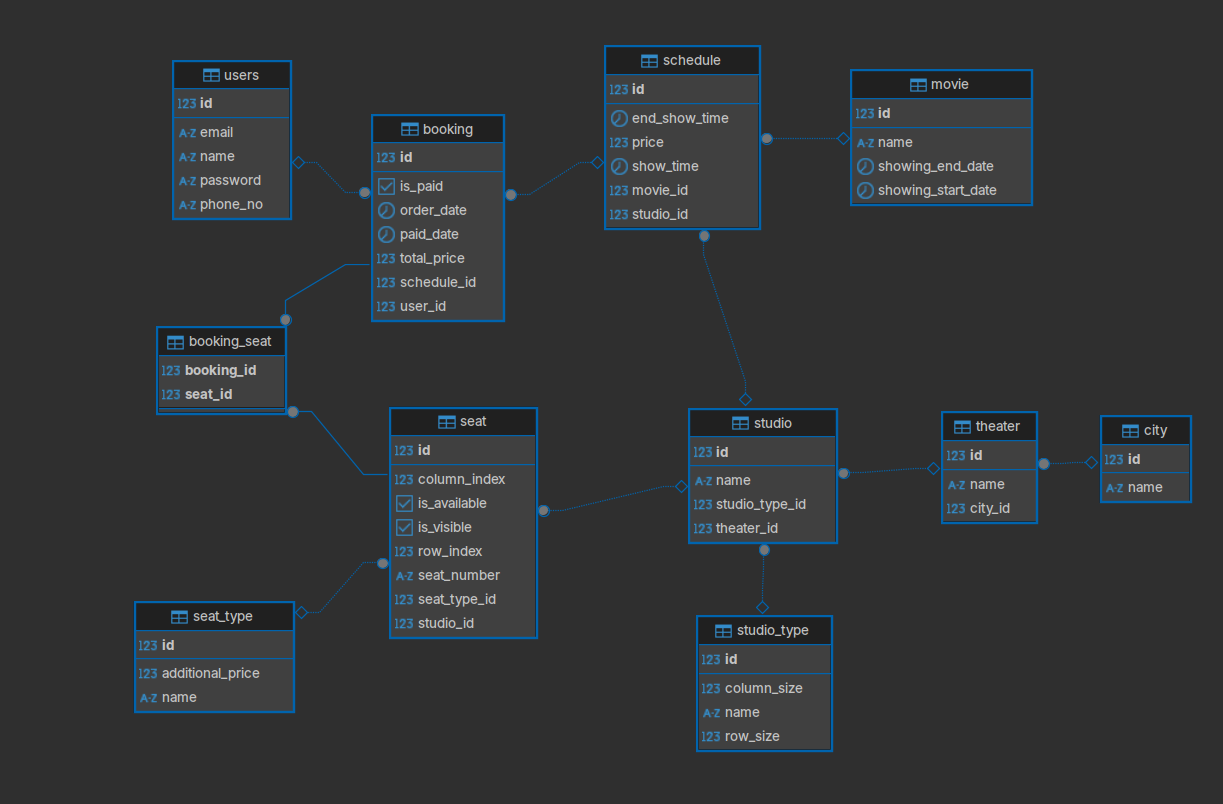
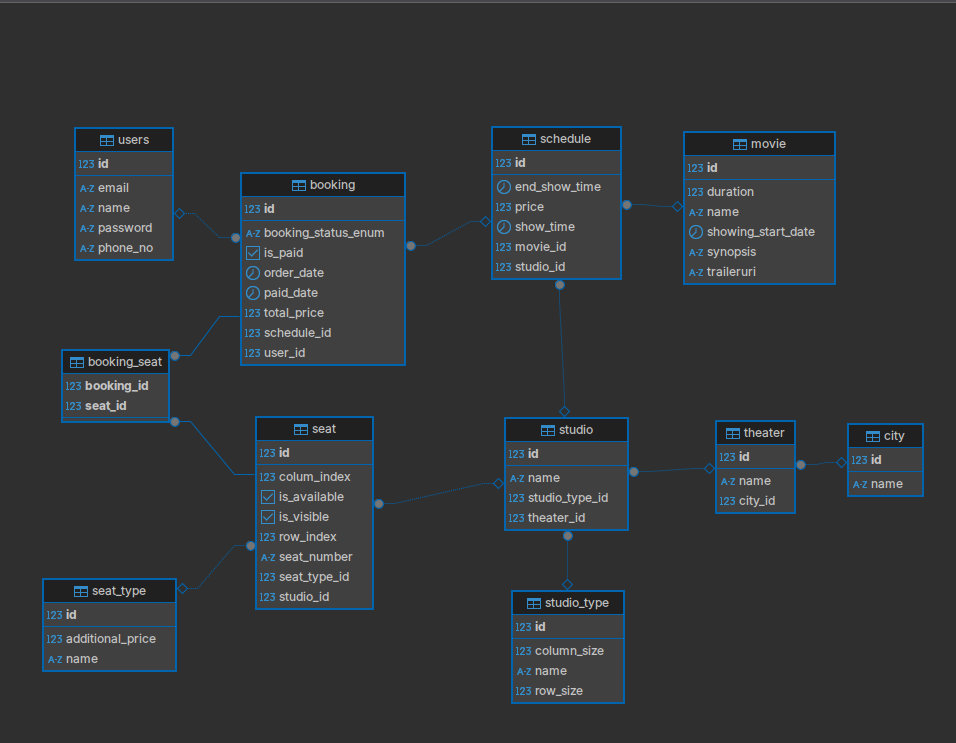
feat: Change Database Little Bit

diff --git a/src/main/java/com/tix/nostra/nostra_tix/domain/Movie.java b/src/main/java/com/tix/nostra/nostra_tix/domain/Movie.java
@@ -13,9 +13,17 @@ public class Movie {
     @Column(nullable = false)
     private String name;
 
-    private Date showingStartDate;
+    @Column(nullable = false)
+    private String trailerURI;
 
-    private Date showingEndDate;
+    @Column(nullable = false)
+    private Integer duration;
+
+    @Lob
+    @Column(nullable = false, columnDefinition = "TEXT")
+    private String synopsis;
+
+    private Date showingStartDate;
 
     public Long getId() {
         return id;
@@ -41,11 +49,27 @@ public class Movie {
         this.showingStartDate = showingStartDate;
     }
 
-    public Date getShowingEndDate() {
-        return showingEndDate;
+    public String getTrailerURI() {
+        return trailerURI;
     }
 
-    public void setShowingEndDate(Date showingEndDate) {
-        this.showingEndDate = showingEndDate;
+    public void setTrailerURI(String trailerURI) {
+        this.trailerURI = trailerURI;
+    }
+
+    public Integer getDuration() {
+        return duration;
+    }
+
+    public void setDuration(Integer duration) {
+        this.duration = duration;
+    }
+
+    public String getSynopsis() {
+        return synopsis;
+    }
+
+    public void setSynopsis(String synopsis) {
+        this.synopsis = synopsis;
     }
 }

diff --git a/src/main/java/com/tix/nostra/nostra_tix/domain/Booking.java b/src/main/java/com/tix/nostra/nostra_tix/domain/Booking.java
@@ -1,5 +1,6 @@
 package com.tix.nostra.nostra_tix.domain;
 
+import com.tix.nostra.nostra_tix.util.BookingStatusEnum;
 import jakarta.persistence.*;
 
 import java.math.BigDecimal;
@@ -22,8 +23,9 @@ public class Booking {
     @Column(nullable = false)
     private BigDecimal totalPrice;
 
+    @Enumerated(EnumType.STRING)
     @Column(nullable = false)
-    private String status;
+    private BookingStatusEnum bookingStatusEnum;
 
     @ManyToOne
     @JoinColumn(name = "schedule_id")
@@ -107,12 +109,12 @@ public class Booking {
         this.paidDate = paidDate;
     }
 
-    public String getStatus() {
-        return status;
+    public BookingStatusEnum getStatus() {
+        return bookingStatusEnum;
     }
 
-    public void setStatus(String status) {
-        this.status = status;
+    public void setStatus(BookingStatusEnum bookingStatusEnum) {
+        this.bookingStatusEnum = bookingStatusEnum;
     }
 
     public Set<Seat> getSeats() {

diff --git a/src/main/java/com/tix/nostra/nostra_tix/util/BookingStatusEnum.java b/src/main/java/com/tix/nostra/nostra_tix/util/BookingStatusEnum.java
@@ -1,0 +1,7 @@
+package com.tix.nostra.nostra_tix.util;
+
+public enum BookingStatusEnum {
+    PAID,
+    WAITING,
+    CANCELLED,
+}
